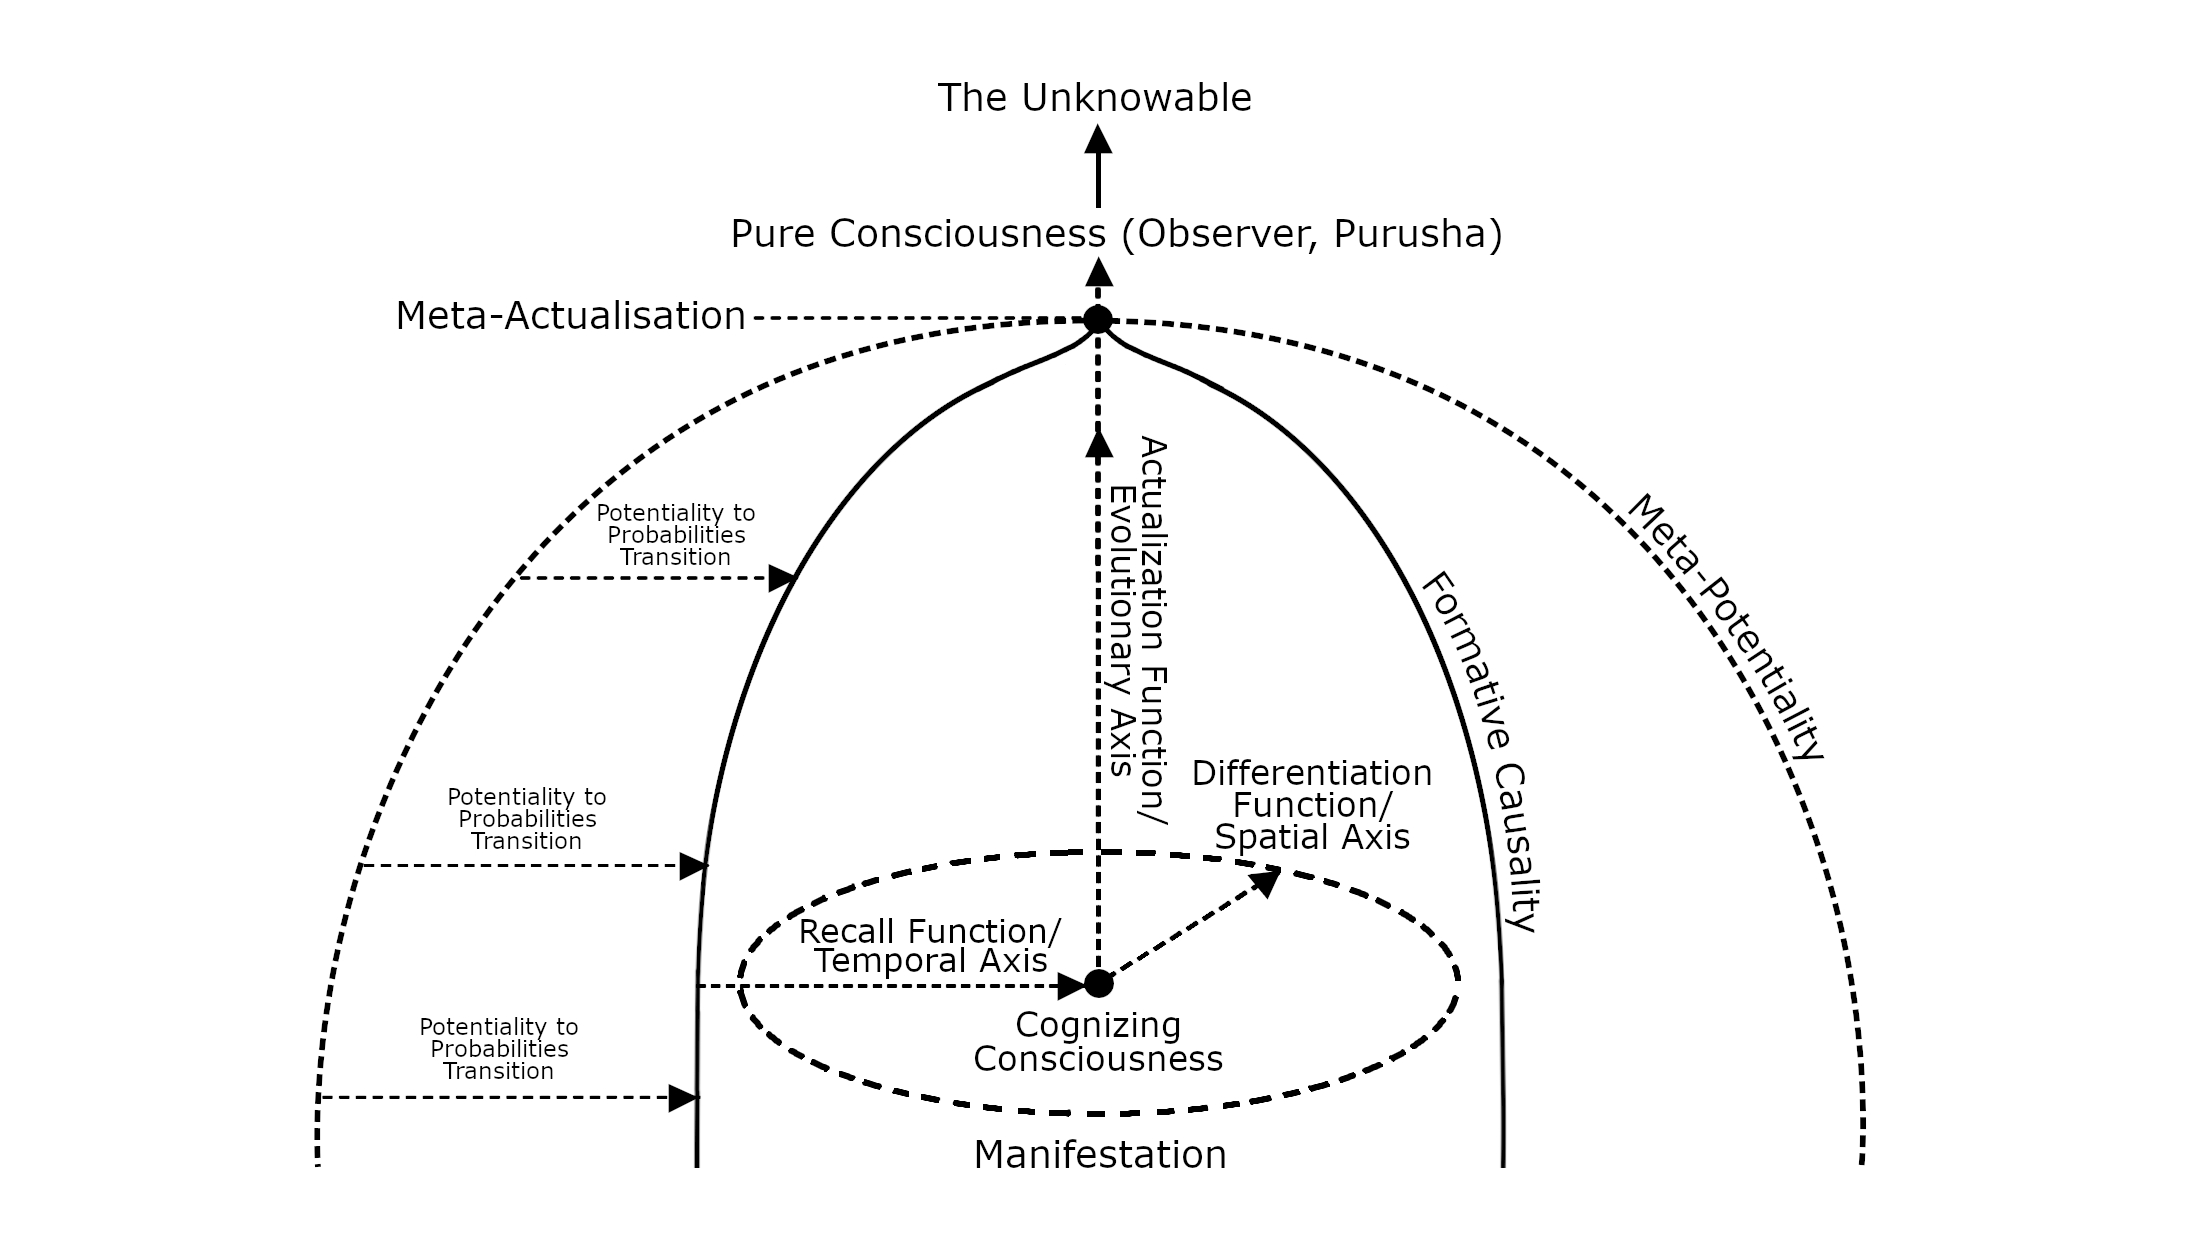
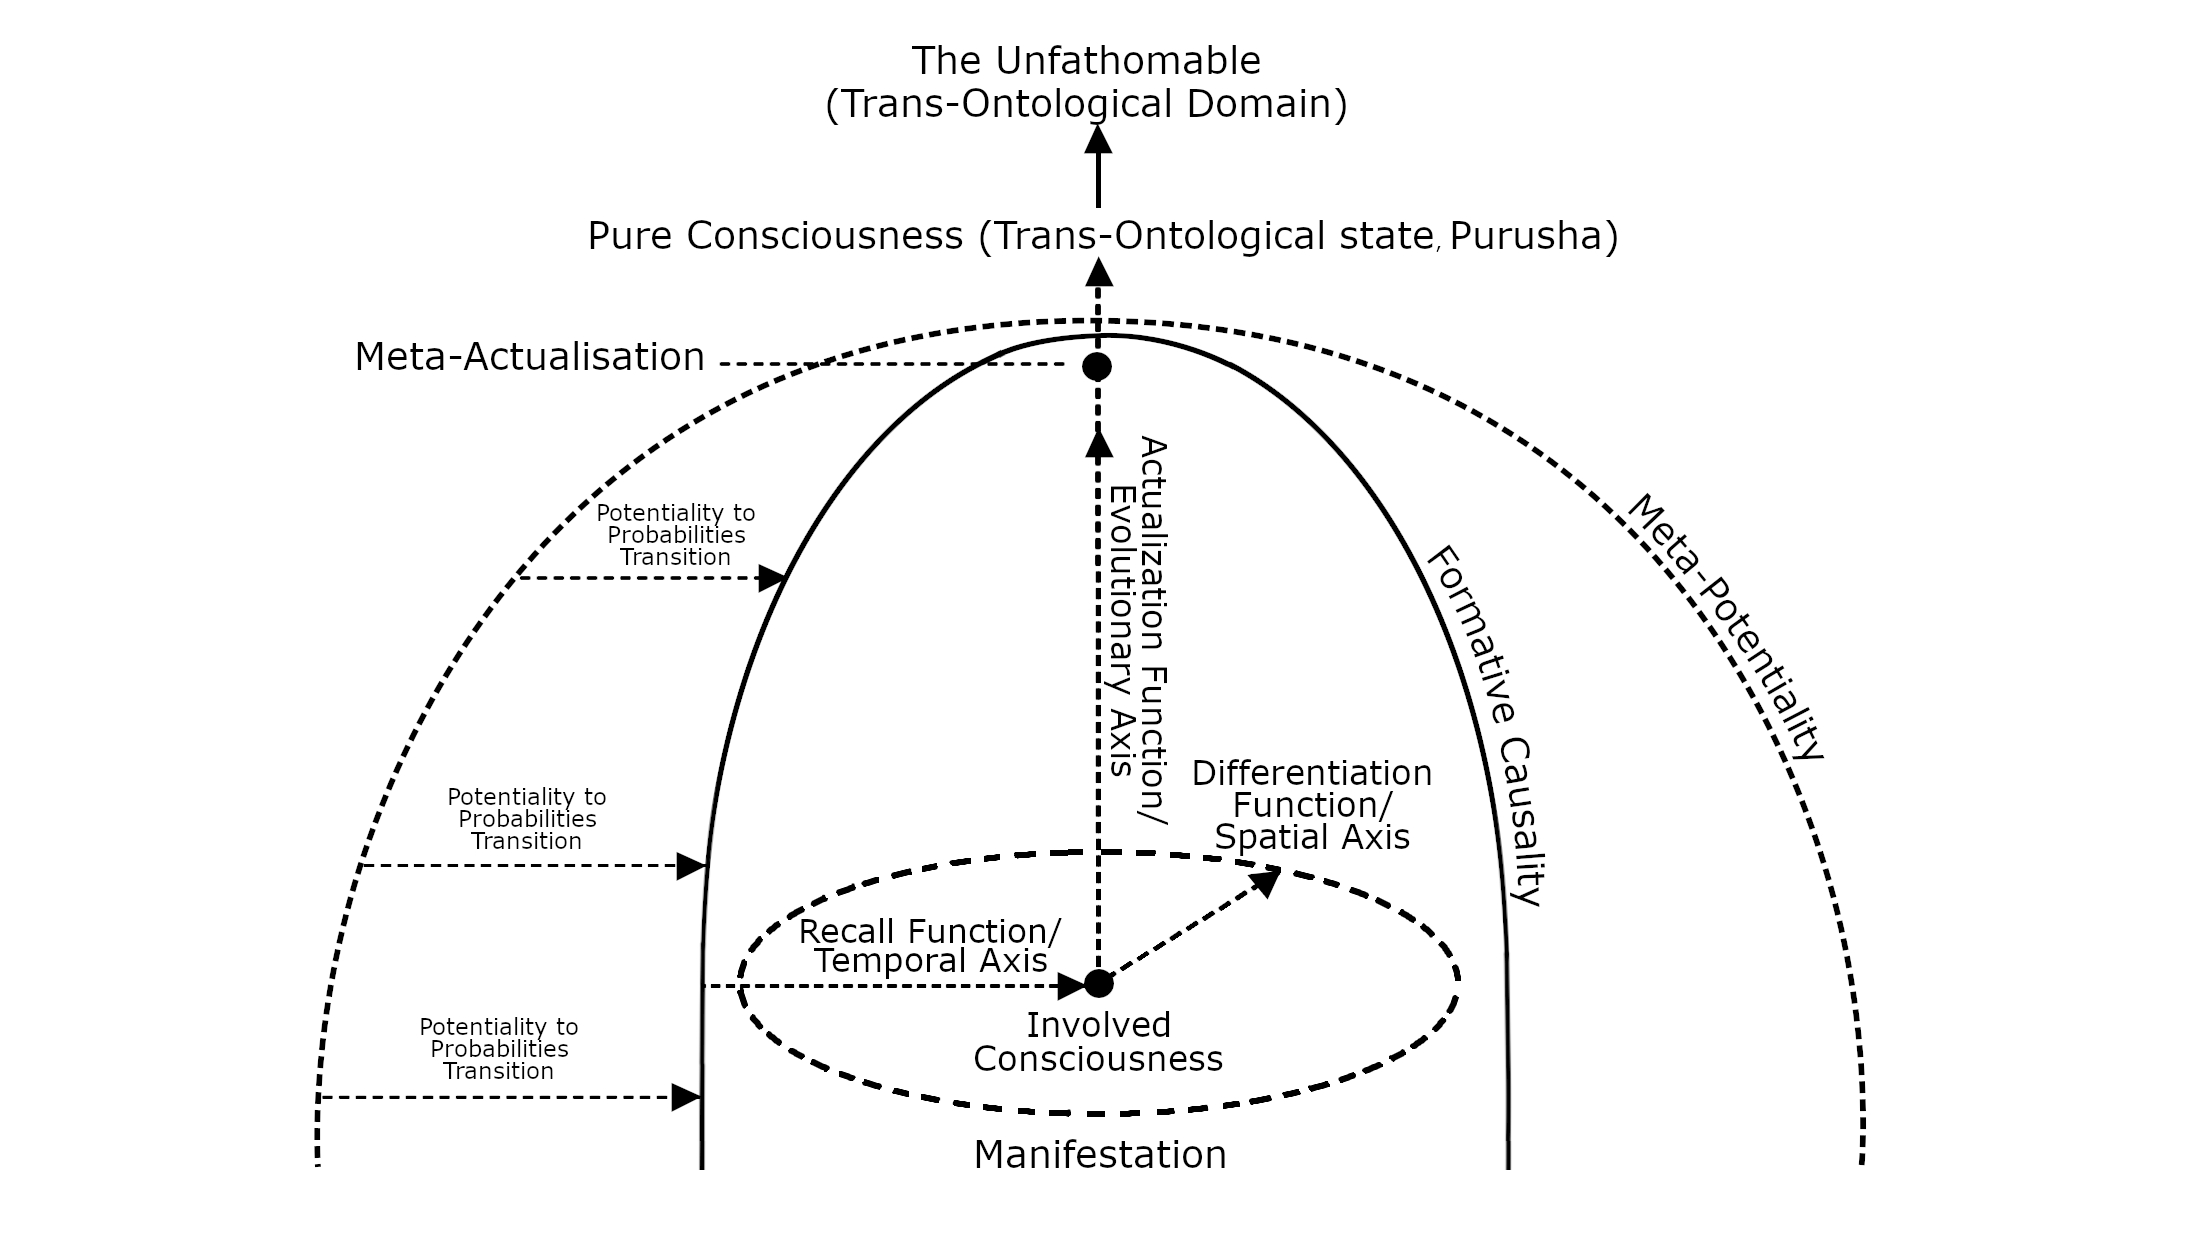
shemefix

diff --git a/content/Meta-Para-Ontology/Terminology/Meta-Para-Ontology.md b/content/Meta-Para-Ontology/Terminology/Meta-Para-Ontology.md
@@ -2,4 +2,4 @@
 A structural meta-system for the integration of knowledge, providing a universal coordinate architecture for localizing philosophical, scientific, psychological, religious, and contemplative paradigms within a single ontological reality.
 
 
-**See also:** [[/meta-para-ontology/introduction|Meta-Para-Ontology Introduction]]
+**See also:** [[/meta-para-ontology/|Meta-Para-Ontology Introduction]]
